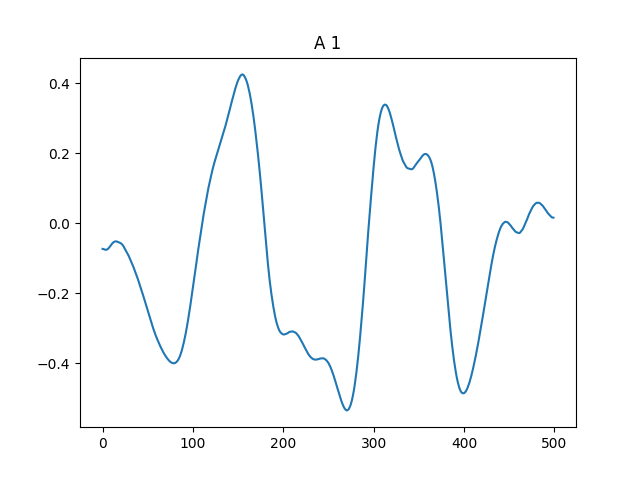
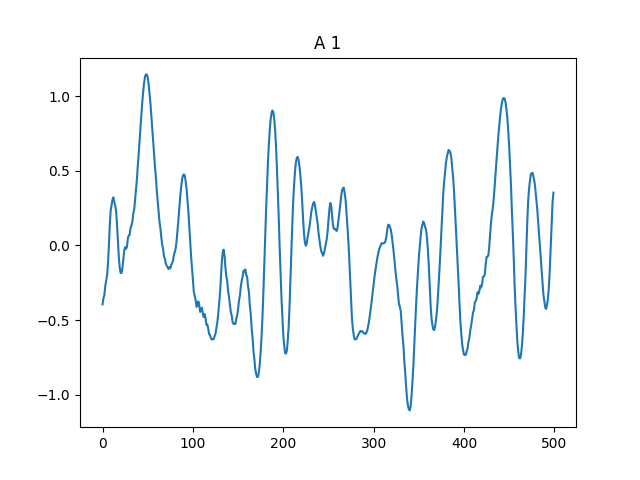
Fixed bugs

diff --git a/main.py b/main.py
@@ -48,21 +48,23 @@ class QOC(nn.Module):
 # Helper functions
 def fidelity(current, target):
     # fidelity function: find the "difference" between the current and the target matrix/pulse
-    return torch.abs(torch.trace(torch.matmul(current.adjoint(),target))/target.shape[0])**2
+    return -torch.abs(torch.trace(torch.matmul(current.adjoint(),target))/target.shape[0])**2
 
 def penalty(matrix, weight):
     # penalty function: makes the pulse smoother
     return torch.sum(torch.diff(matrix, dim=1)**2)*weight
 
-def train(model, optim, target, requiredaccuracy, maxiterations, weight):
+def train(model, optim, target, accuracy, smoothness, maxiterations, weight):
     # training data
-    loss = 1
+    fid = 0
+    pen = 1
+    loss = 0
     i = 0
-    while loss >= requiredaccuracy and i<maxiterations:
+    while (1+fid >= accuracy or pen >= smoothness) and i<maxiterations:
         predictedOut = model()
         fid = fidelity(predictedOut, target)
         pen = penalty(model.a, weight)
-        loss = fid + pen
+        loss = (1+fid) + pen
         if i % 100 == 99:
             print(f"Epoch {i+1}:\n - loss: {loss.item()}\n - fidelity: {fid}\n - penalty: {pen}")
         optim.zero_grad()
@@ -122,5 +124,6 @@ Hc = torch.stack([H1c, H2c])
 # Main Function
 model = QOC(Hd, Hc, dt, N, maxpower, torch.randn(Hc.shape[0], N))
 adam = torch.optim.Adam(model.parameters(), lr = 0.001)
-train(model=model, optim=adam, target=H0, requiredaccuracy=0.01, maxiterations=15000, weight=0.1)
+# high smoothness -> high weight
+train(model=model, optim=adam, target=H0, accuracy=0.01, smoothness=0.5, maxiterations=100000, weight=0.1)
 model.plot()
